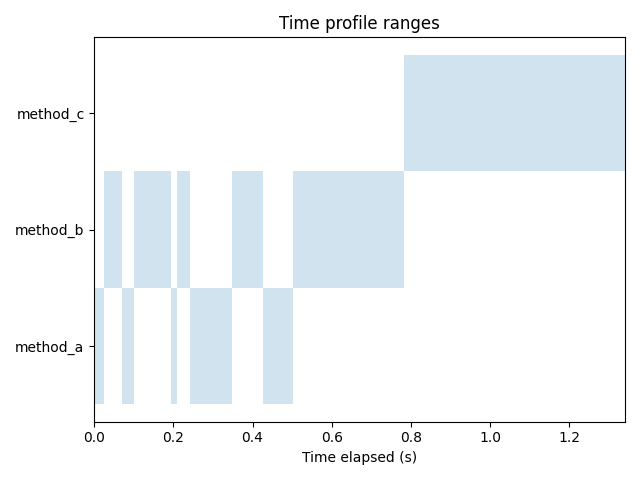
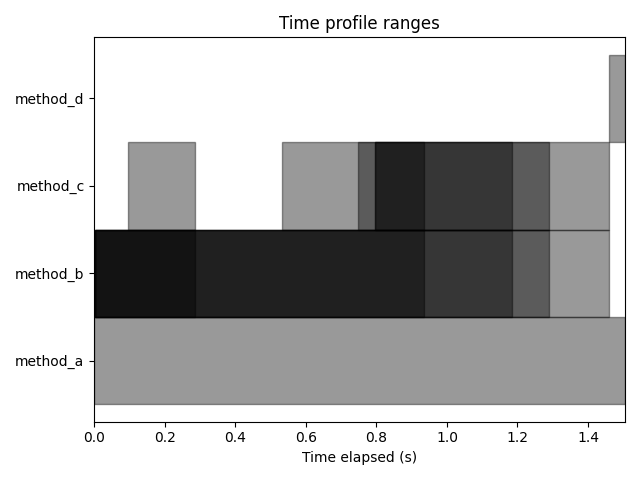
Modified examples

diff --git a/simpleprofiler.py b/simpleprofiler.py
@@ -257,13 +257,11 @@ if __name__ == "__main__":
                 # Run method b as threads
                 fs = (executor.submit(self.method_b) for _ in range(0, num))
 
-                # Run method c
-                for _ in range(0, num):
-                    self.method_c()
-
                 # Wait for all futures to complete
                 for f in concurrent.futures.as_completed(fs):
                     pass
+
+            self.method_d()
 
         def method_b(self):
             sleep(randint(0, 10000) / 10000)
@@ -272,7 +270,11 @@ if __name__ == "__main__":
         def method_c(self):
             sleep(randint(0, 10000) / 10000)
 
+        def method_d(self):
+            sleep(randint(0, 10000) / 10000)
+
     calc = ExampleClass()
+
     calc.method_a(5)
 
     TimeProfiler.display_profiles(TimeProfiler.ORDER_BY_NAME)

diff --git a/README.md b/README.md
@@ -10,11 +10,12 @@ The TimeProfiler class provides two static decorator methods for profiling: one 
 The **display_profiles** static method is used to display all time profiles, ordered by a specified column.
 
 ```
-Name        Calls    Average (ms)    Longest (ms)    Total elapsed (ms)
---------  -------  --------------  --------------  --------------------
-method_a        5           50.76          107.96                502.00
-method_b       10           52.78           93.93                758.04
-method_c        5          111.80          155.61                559.05
+Name        Calls    Average (ms)    Longest (ms)    Bottleneck (ms)
+--------  -------  --------------  --------------  -----------------
+method_a        1        1,504.80        1,504.80           1,504.80
+method_b        5        1,027.98        1,456.32           1,456.32
+method_c        5          436.64          757.97           1,115.18
+method_d        1           45.95           45.95              45.95
 ```
 
 The **plot_profiles** static method is used to plot all time profiles as ranges, ordered by earliest method call.
@@ -56,5 +57,5 @@ After adding the decorators and calling the methods, the **display_profiles** or
 
 ```python
 TimeProfiler.display_profiles(order_by=TimeProfiler.ORDER_BY_AVERAGE, reverse=True)
-TimeProfiler.plot_profiles(reverse=True)
+TimeProfiler.plot_profiles(fc="yellow", ec="black")
 ```
